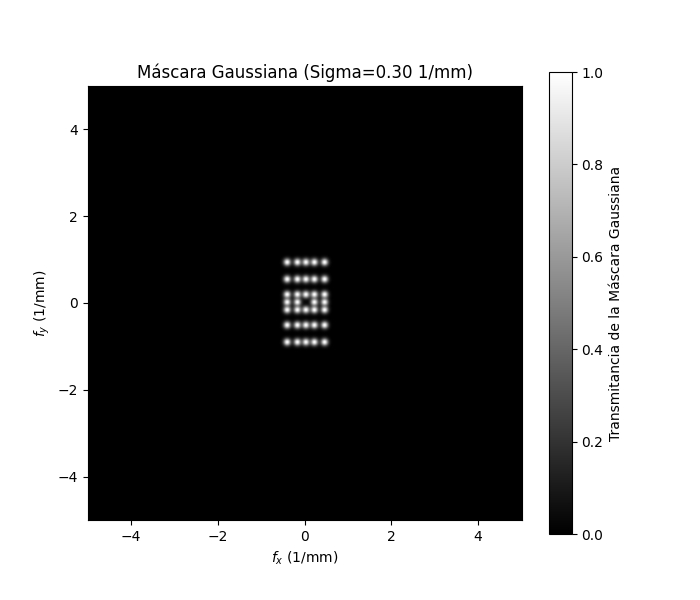
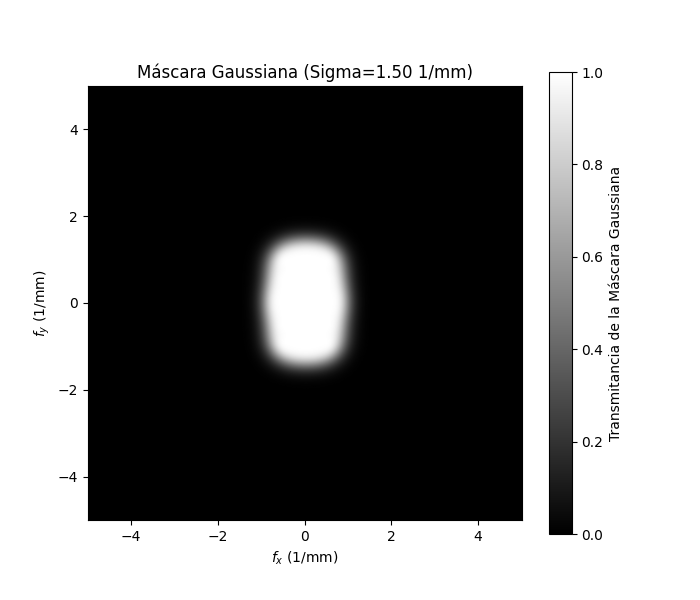
update
correlacion o comparacion dle ruido metodo de latas energias

Changed region(s): [[0.36, 0.36, 0.51, 0.63], [0.54, 0.09, 0.57, 0.15]]

diff --git a/Practicas/Practica_02/Actividad_1/Correlaciones.py b/Practicas/Practica_02/Actividad_1/Correlaciones.py
@@ -1,58 +1,147 @@
+import cv2
 import numpy as np
 import matplotlib.pyplot as plt
-from PIL import Image
+from skimage.restoration import estimate_sigma
+from skimage.measure import shannon_entropy
+import sys
 
-# 1. Cargar imágenes (asumimos que 'f' es la imagen y 'h' es la plantilla)
-# (Aquí usamos datos de ejemplo)
-f = np.array(Image.open("ruta/a/tu/imagen_principal.png").convert('L'))
-h = np.array(Image.open("ruta/a/tu/plantilla.png").convert('L'))
+# --- Configuración ---
+NOISY_IMG_PATH = 'Practicas/Practica_02/Actividad_1/Noise images/Noise (9).png'
+FILTERED_IMG_PATH = 'Practicas/Practica_02/Actividad_1/CORE_FILTR.png'
 
-# 2. Asegurar el mismo tamaño (Padding)
-shape_f = f.shape
-shape_h = h.shape
+# Fracción del espectro que consideramos "altas frecuencias"
+# 0.15 = el 15% central es baja frecuencia, el resto es alta.
+HF_FREQUENCY_RATIO = 0.25
+# ---------------------
 
-# Crear una matriz 'h' del tamaño de 'f' con la plantilla en la esquina
-h_padded = np.zeros_like(f, dtype=float)
-h_padded[0:shape_h[0], 0:shape_h[1]] = h
-# Es importante centrar la plantilla si su origen importa, 
-# pero para la detección de picos simple, esto funciona.
+def load_image_or_exit(image_path):
+    """Carga una imagen en escala de grises o termina el script si no la encuentra."""
+    image = cv2.imread(image_path, cv2.IMREAD_GRAYSCALE)
+    if image is None:
+        print(f"Error: No se pudo cargar la imagen en: {image_path}")
+        print("Por favor, asegúrate de que el archivo exista en la misma carpeta que el script.")
+        sys.exit(1)
+    return image
 
-# 3. Calcular FFTs
-F = np.fft.fft2(f)
-H = np.fft.fft2(h_padded) # Usar la versión con padding
+def get_fft_spectrum(image):
+    """Calcula el espectro de magnitud 2D centrado y en escala logarítmica."""
+    # Convertir a float para la FFT
+    image_float = image.astype(np.float32)
+    
+    # 1. Aplicar FFT y centrar (shift) el componente DC
+    f = np.fft.fft2(image_float)
+    fshift = np.fft.fftshift(f)
+    
+    # 2. Calcular el espectro de magnitud para visualización (logarítmico)
+    magnitude_spectrum = 20 * np.log(np.abs(fshift) + 1) # +1 para evitar log(0)
+    
+    return fshift, magnitude_spectrum
 
-# 4. Calcular el filtro acoplado (conjugado)
-H_conj = np.conj(H)
+def calculate_hf_energy(fshift, hf_ratio):
+    """Calcula la energía total en las altas frecuencias del espectro."""
+    rows, cols = fshift.shape
+    crow, ccol = rows // 2, cols // 2
+    
+    # Definir el radio de la banda de bloqueo (bajas frecuencias)
+    radius = int(min(crow, ccol) * hf_ratio)
+    
+    # Crear una máscara circular (1 en altas frec, 0 en bajas frec)
+    y, x = np.ogrid[-crow:rows-crow, -ccol:cols-ccol]
+    mask = x*x + y*y > radius*radius
+    
+    # Calcular la energía de alta frecuencia (Suma de |F(u,v)|^2)
+    hf_energy = np.sum(np.abs(fshift[mask])**2)
+    return hf_energy
 
-# 5. Multiplicar en el dominio de Fourier
-R = F * H_conj
+# --- 1. Cargar Imágenes ---
+noisy_img = load_image_or_exit(NOISY_IMG_PATH)
+filtered_img = load_image_or_exit(FILTERED_IMG_PATH)
 
-# 6. IFFT para obtener el plano de correlación
-r = np.fft.ifft2(R)
+# --- 2. Análisis Cuantitativo (Impresión en Consola) ---
 
-# 7. El resultado 'r' es complejo. La intensidad de correlación es la magnitud al cuadrado.
-# A menudo usamos fftshift para centrar el pico de autocorrelación (lag=0) en el medio.
-correlation_plane = np.fft.fftshift(np.abs(r)**2)
+print("--- ANÁLISIS CUANTITATIVO GLOBAL DE REDUCCIÓN DE RUIDO ---")
 
-# 8. Encontrar la ubicación del pico
-y, x = np.unravel_index(np.argmax(correlation_plane), correlation_plane.shape)
-peak_value = correlation_plane[y, x]
 
-print(f"Pico de correlación encontrado en (y, x): ({y}, {x}) con valor {peak_value:.2e}")
+#Análisis Espectral (FFT)
+print("\n[MÉTODO: Energía de Alta Frecuencia (Global)]")
+noisy_fshift, noisy_spec_img = get_fft_spectrum(noisy_img)
+filtered_fshift, filtered_spec_img = get_fft_spectrum(filtered_img)
 
-# --- Graficar ---
-fig, ax = plt.subplots(1, 3, figsize=(18, 6))
+hf_energy_noisy = calculate_hf_energy(noisy_fshift, HF_FREQUENCY_RATIO)
+hf_energy_filtered = calculate_hf_energy(filtered_fshift, HF_FREQUENCY_RATIO)
+hf_reduction = (1 - hf_energy_filtered / hf_energy_noisy) * 100
+print(f"  > Energía HF (Ruidosa):   {hf_energy_noisy:10.2e}")
+print(f"  > Energía HF (Filtrada):  {hf_energy_filtered:10.2e}")
+print(f"  > Reducción de energía HF:  {hf_reduction:10.1f}%")
 
-ax[0].imshow(f, cmap='gray')
-ax[0].set_title('Imagen $f(x, y)$')
+# Método: Entropía (Teoría de Información)
+print("\n[MÉTODO 3: Entropía de Shannon (Global)]")
+entropy_noisy = shannon_entropy(noisy_img)
+entropy_filtered = shannon_entropy(filtered_img)
+entropy_reduction = (1 - entropy_filtered / entropy_noisy) * 100
+print(f"  > Entropía (Ruidosa):   {entropy_noisy:10.2f} bits/píxel")
+print(f"  > Entropía (Filtrada):  {entropy_filtered:10.2f} bits/píxel")
+print(f"  > Reducción de entropía:  {entropy_reduction:10.1f}%")
+print("---------------------------------------------------------")
 
-ax[1].imshow(h, cmap='gray')
-ax[1].set_title('Plantilla $h(x, y)$')
 
-im = ax[2].imshow(correlation_plane, cmap='hot')
-ax[2].plot(x, y, 'g+', markersize=10) # Marcar el pico
-ax[2].set_title('Plano de Correlación $|r(x, y)|^2$')
-fig.colorbar(im, ax=ax[2], label='Intensidad de Correlación')
+# --- Graficas ---
 
-plt.tight_layout()
+
+fig = plt.figure(figsize=(16, 12)) # Ajustar tamaño (más alto)
+gs = fig.add_gridspec(2, 4)
+fig.suptitle('Comparación Cuantitativa de Reducción de Ruido', fontsize=20, y=0.98)
+
+# Eje 1: Ocupa TODA la primera fila (fusiona las columnas 0 y 1)
+ax1 = fig.add_subplot(gs[0, 1:3]) 
+# Eje 2: Ocupa la celda de abajo a la izquierda (fila 1, col 0)
+ax2 = fig.add_subplot(gs[1, 0:2])
+# Eje 3: Ocupa la celda de abajo a la derecha (fila 1, col 1)
+ax3 = fig.add_subplot(gs[1, 2:4])
+
+
+# Gráfica 1: Energía de Alta Frecuencia (FFT) - va en ax1
+ax1.bar(
+    ['Imagen Ruidosa', 'Imagen Filtrada'], 
+    [hf_energy_noisy, hf_energy_filtered], 
+    color=["#1D20D3", "#0EB31C"],
+    width=0.6
+)
+ax1.set_title('Método: Energía de Alta Frecuencia ', fontsize=14)
+ax1.set_ylabel('Energía Total (Escala Log)', fontsize=12)
+ax1.set_yscale('log') # La escala logarítmica es clave aquí
+ax1.grid(axis='y', linestyle='--', alpha=0.7)
+ax1.text(1, hf_energy_filtered, f'{hf_reduction:.1f}%\nReducción', 
+               ha='center', va='bottom', fontsize=12, color='black', fontweight='bold')
+
+#Espectro FFT (Ruidosa) 
+im1 = ax2.imshow(noisy_spec_img, cmap='hot', 
+                       vmax=max(noisy_spec_img.max(), filtered_spec_img.max()),
+                       vmin=min(noisy_spec_img.min(), filtered_spec_img.min()))
+ax2.set_title('Espectro de Frecuencias $S(ξ,η)$', fontsize=14)
+ax2.set_xticks([])
+ax2.set_yticks([])
+fig.colorbar(im1, ax=ax2, orientation='horizontal', pad=0.1, fraction=0.046)
+# Dibujar el círculo que separa altas/bajas frecuencias
+radius = int(min(noisy_img.shape[0]//2, noisy_img.shape[1]//2) * HF_FREQUENCY_RATIO)
+circle = plt.Circle((noisy_img.shape[1]//2, noisy_img.shape[0]//2), radius, color='black', 
+                    fill=False, linestyle='--', linewidth=2, alpha=0.7)
+ax2.add_patch(circle)
+
+
+# Espectro FFT (Filtrada)
+im2 = ax3.imshow(filtered_spec_img, cmap='hot',
+                       vmax=max(noisy_spec_img.max(), filtered_spec_img.max()),
+                       vmin=min(noisy_spec_img.min(), filtered_spec_img.min()))
+ax3.set_title('Espectro de Frecuencias ($U(x´,y´)$)', fontsize=14)
+ax3.set_xticks([])
+ax3.set_yticks([])
+fig.colorbar(im2, ax=ax3, orientation='horizontal', pad=0.1, fraction=0.046)
+# Dibujar el círculo
+radius = int(min(filtered_img.shape[0]//2, filtered_img.shape[1]//2) * HF_FREQUENCY_RATIO)
+circle = plt.Circle((filtered_img.shape[1]//2, filtered_img.shape[0]//2), radius, color='black', 
+                    fill=False, linestyle='--', linewidth=2, alpha=0.7)
+ax3.add_patch(circle)
+
+plt.tight_layout(rect=[0, 0.03, 1, 0.95]) # Ajustar para el supertítulo
 plt.show()
